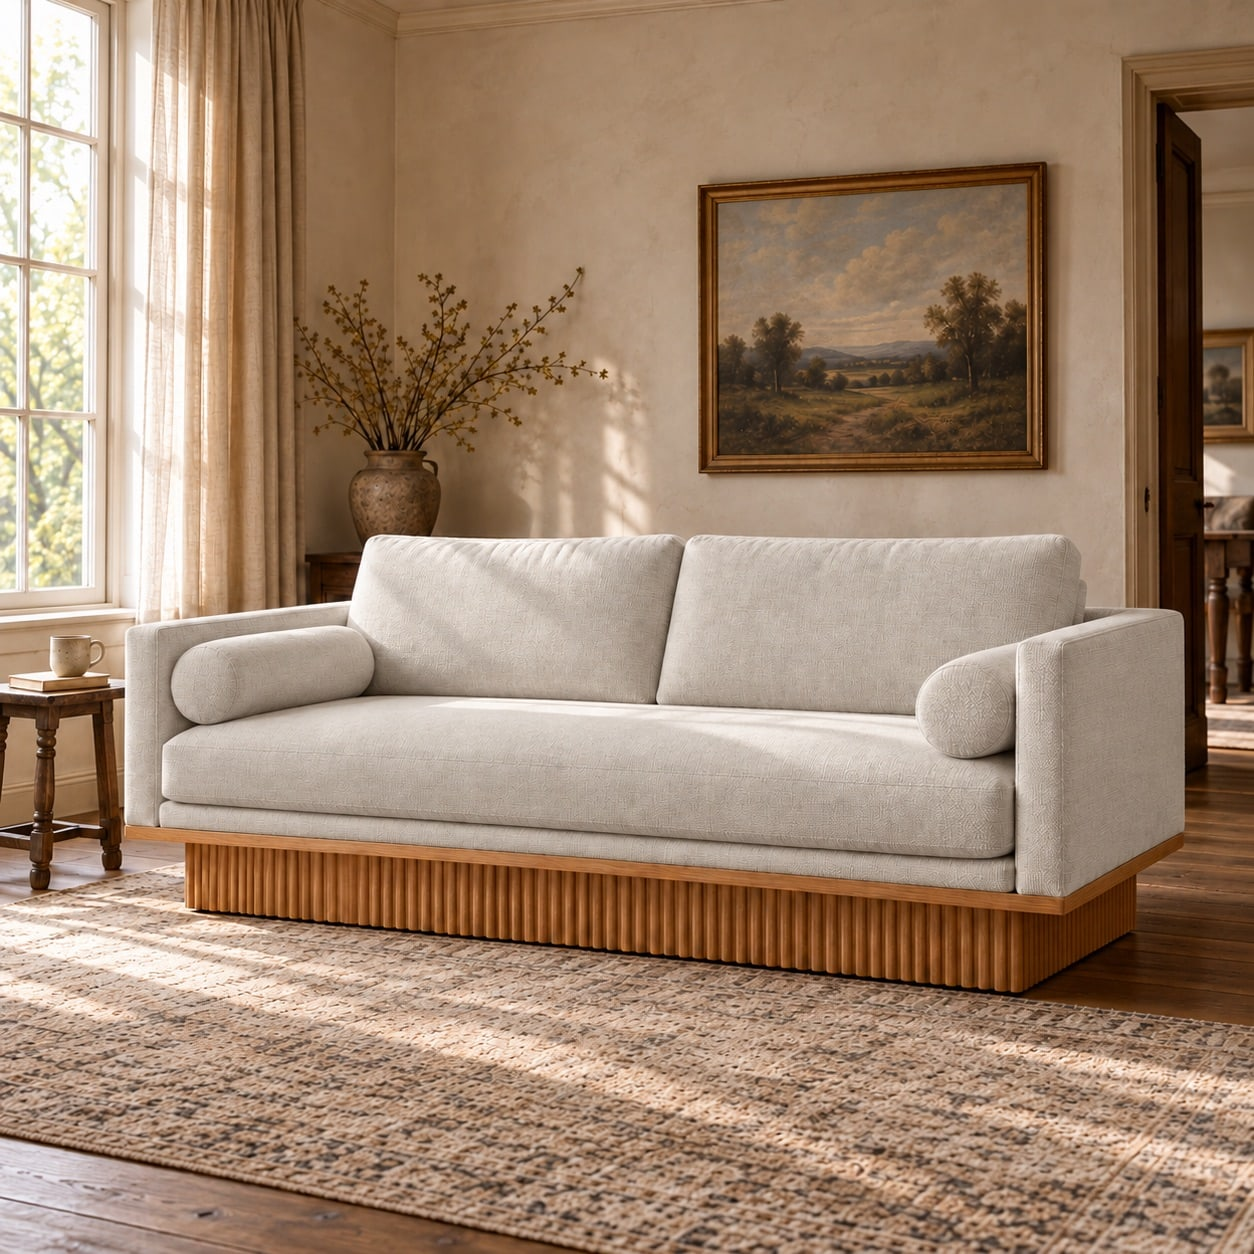
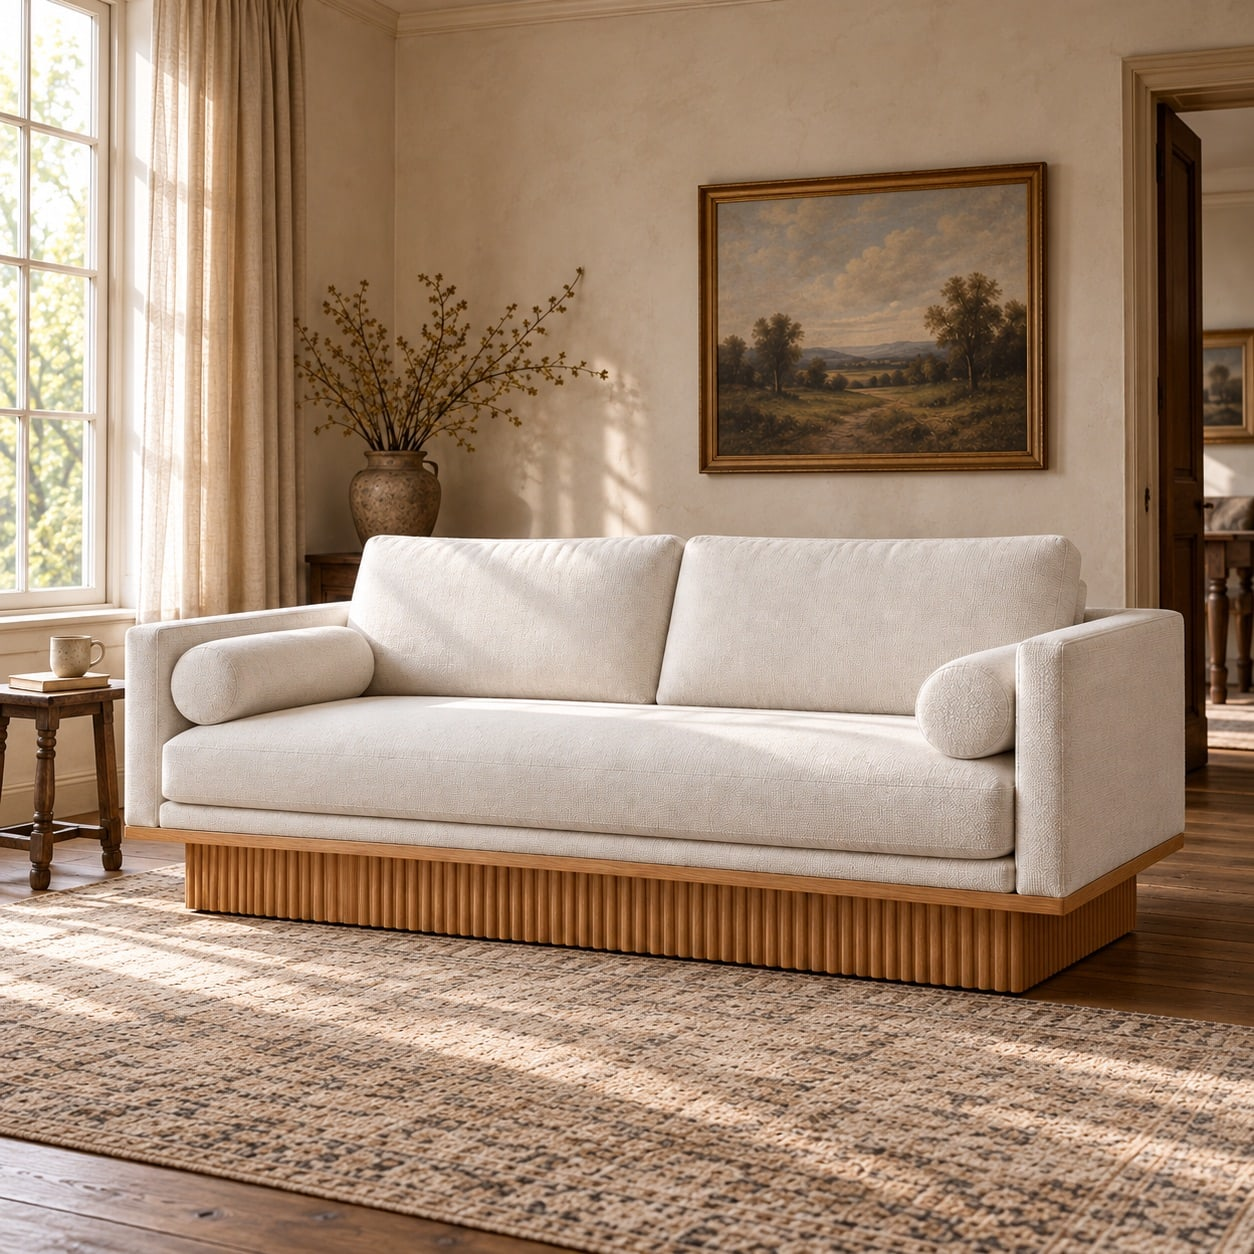
Marlowe Sofa: all eight colorway photos; tag follows the photo; phone-sized selection tag (#150)
* Sorrel: updated labelled cutaway (coir and agave layer)

Claude-Session: https://claude.ai/code/session_01BdupDbY4vAUPMLYs1EoME5

* Ashbury construction: coconut coir and agave beneath the pocket coils; new stacked-layers photo

- Construction list (mattress page and Inside the Ashbury): coils, coconut coir, agave, then cotton and wool; coir and agave link to Furniture materials
- Pocket coils, coir and agave entries and the assistant's construction line updated to match

Claude-Session: https://claude.ai/code/session_01BdupDbY4vAUPMLYs1EoME5

* Mattress: new coir & agave 'Naturally layered' graphics for Sorrel, Fleece, Flint and Flax (back in their galleries; Moss awaits its graphic)

Claude-Session: https://claude.ai/code/session_01BdupDbY4vAUPMLYs1EoME5

* Furniture: remove Cork upholstery (Marlowe sofa/loveseat/chair/ottoman option, swatches, sofa photos, trade copy)

Claude-Session: https://claude.ai/code/session_01BdupDbY4vAUPMLYs1EoME5

* Mattress: retire Moss; the Ashbury now comes in four colors (copy, feed and meta updated)

Claude-Session: https://claude.ai/code/session_01BdupDbY4vAUPMLYs1EoME5

* Dog bed: retire Moss to match the Ashbury's four colors (copy, editorial photo, assistant)

Claude-Session: https://claude.ai/code/session_01BdupDbY4vAUPMLYs1EoME5

* Mattress: $200 white glove delivery (product page, cart, checkout copy, feeds, FAQs, assistant); dog beds stay free

Claude-Session: https://claude.ai/code/session_01BdupDbY4vAUPMLYs1EoME5
[…]

diff --git a/lib/products.ts b/lib/products.ts
@@ -216,8 +216,8 @@ const ALL_PRODUCTS: Product[] = [
     photos: [
       // White linen studio and room shots (Oct 2026). The walnut/oak plinth renders were removed from this gallery (files kept).
       "marlowe-studio-linen", "marlowe-room-linen",
-      // In swatch order (Chalk has no photo yet).
-      "marlowe-sofa-fleece", "marlowe-sofa-oat", "marlowe-sofa-reed", "marlowe-sofa-flax",
+      // One per color, in swatch order (the studio and room shots above are Fleece too).
+      "marlowe-sofa-fleece", "marlowe-sofa-oat", "marlowe-sofa-reed", "marlowe-sofa-flax", "marlowe-sofa-chalk",
       "marlowe-sofa-fawn", "marlowe-sofa-saddle", "marlowe-sofa-flint",
     ],
     cardSingle: true,
@@ -225,10 +225,11 @@ const ALL_PRODUCTS: Product[] = [
     photoTags: {
       "marlowe-studio-linen": { wood: "red-oak", fabric: "irish", color: "white" },
       "marlowe-room-linen": { wood: "red-oak", fabric: "irish", color: "white" },
-      "marlowe-sofa-fleece": { wood: "red-oak", fabric: "irish", color: "white" },
       "marlowe-sofa-oat": { wood: "red-oak", fabric: "irish", color: "cream" },
       "marlowe-sofa-reed": { wood: "red-oak", fabric: "irish", color: "flax" },
+      "marlowe-sofa-fleece": { wood: "red-oak", fabric: "irish", color: "white" },
       "marlowe-sofa-flax": { wood: "red-oak", fabric: "irish", color: "oatmeal" },
+      "marlowe-sofa-chalk": { wood: "red-oak", fabric: "irish", color: "ivory" },
       "marlowe-sofa-fawn": { wood: "red-oak", fabric: "irish", color: "sand" },
       "marlowe-sofa-saddle": { wood: "red-oak", fabric: "irish", color: "coco" },
       "marlowe-sofa-flint": { wood: "red-oak", fabric: "irish", color: "dove" },

diff --git a/components/product-view.tsx b/components/product-view.tsx
@@ -99,7 +99,17 @@ export function ProductView({ id, initialMode }: { id: string; initialMode: Mode
     if (Math.abs(dx) < 40) return;
     swiped.current = true;
     const n = p.photos.length;
-    setImg((i) => (i + (dx < 0 ? 1 : -1) + n) % n);
+    goTo((img + (dx < 0 ? 1 : -1) + n) % n);
+  };
+  // Browsing to a photo of one of this piece's colors selects that color, so "Your selection" names what's shown.
+  const goTo = (i: number) => {
+    setImg(i);
+    const t = p.photoTags?.[p.photos[i]];
+    if (!t?.fabric || !p.fabrics.includes(t.fabric)) return;
+    if (t.color && !colorsFor(p, t.fabric)?.some((c) => c.id === t.color)) return;
+    setFabricState(t.fabric);
+    setColorState(t.color ?? firstColor(t.fabric) ?? "");
+    if (t.wood && WOODS.some((w) => w.id === t.wood)) setWoodState(t.wood);
   };
 
   // Keep the URL in step with the tab (/products/:id vs /products/:id/customize) without a navigation.
@@ -204,7 +214,7 @@ export function ProductView({ id, initialMode }: { id: string; initialMode: Mode
         {p.photos.length > 1 && (
           <div className="gal-thumbs">
             {p.photos.map((ph, i) => (
-              <button key={ph} className={i === img ? "on" : ""} aria-label={"Image " + (i + 1)} aria-pressed={i === img} onClick={() => setImg(i)}>
+              <button key={ph} className={i === img ? "on" : ""} aria-label={"Image " + (i + 1)} aria-pressed={i === img} onClick={() => goTo(i)}>
                 <Photo src={ph} label="" sizes="84px" />
               </button>
             ))}

diff --git a/lib/photos.ts b/lib/photos.ts
@@ -109,6 +109,7 @@ import marloweStudioLinen from "@/assets/photos/marlowe-studio-linen.jpg";
 import marloweRoomLinen from "@/assets/photos/marlowe-room-linen.jpg";
 // The Marlowe Sofa in red oak, one per Irish Linen colorway (Marlowe names).
 import marloweSofaFleece from "@/assets/photos/marlowe-sofa-fleece.jpg";
+import marloweSofaChalk from "@/assets/photos/marlowe-sofa-chalk.jpg";
 import marloweSofaFawn from "@/assets/photos/marlowe-sofa-fawn.jpg";
 import marloweSofaSaddle from "@/assets/photos/marlowe-sofa-saddle.jpg";
 import marloweSofaFlint from "@/assets/photos/marlowe-sofa-flint.jpg";
@@ -275,6 +276,7 @@ export const PHOTOS = {
   "marlowe-studio-linen": marloweStudioLinen,
   "marlowe-room-linen": marloweRoomLinen,
   "marlowe-sofa-fleece": marloweSofaFleece,
+  "marlowe-sofa-chalk": marloweSofaChalk,
   "marlowe-sofa-fawn": marloweSofaFawn,
   "marlowe-sofa-saddle": marloweSofaSaddle,
   "marlowe-sofa-flint": marloweSofaFlint,

diff --git a/app/globals.css b/app/globals.css
@@ -899,3 +899,5 @@ button.chip{cursor:pointer}
 .gal-photo.zoomable{cursor:zoom-in}
 .gal-zoom{position:absolute;top:12px;right:12px;width:40px;height:40px;border-radius:50%;border:1px solid var(--hair);background:rgba(246,242,236,.92);display:flex;align-items:center;justify-content:center;cursor:pointer;color:var(--ink);padding:0}
 @media (max-width:640px){.lb-arrow{width:40px;height:40px;font-size:26px}.lb-arrow.prev{left:8px}.lb-arrow.next{right:8px}.lb-hint{font-size:11px}}
+/* Phones: a smaller selection tag and zoom button, tucked into the corners so they cover less of the piece. */
+@media (max-width:640px){.sel-swatch{left:8px;bottom:8px;gap:8px;padding:6px 10px 6px 6px;font-size:12px;max-width:calc(100% - 16px)}.sel-chip{width:26px;height:26px}.sel-label{gap:0}.sel-label .eyebrow{font-size:8px}.gal-zoom{top:8px;right:8px;width:34px;height:34px}}
